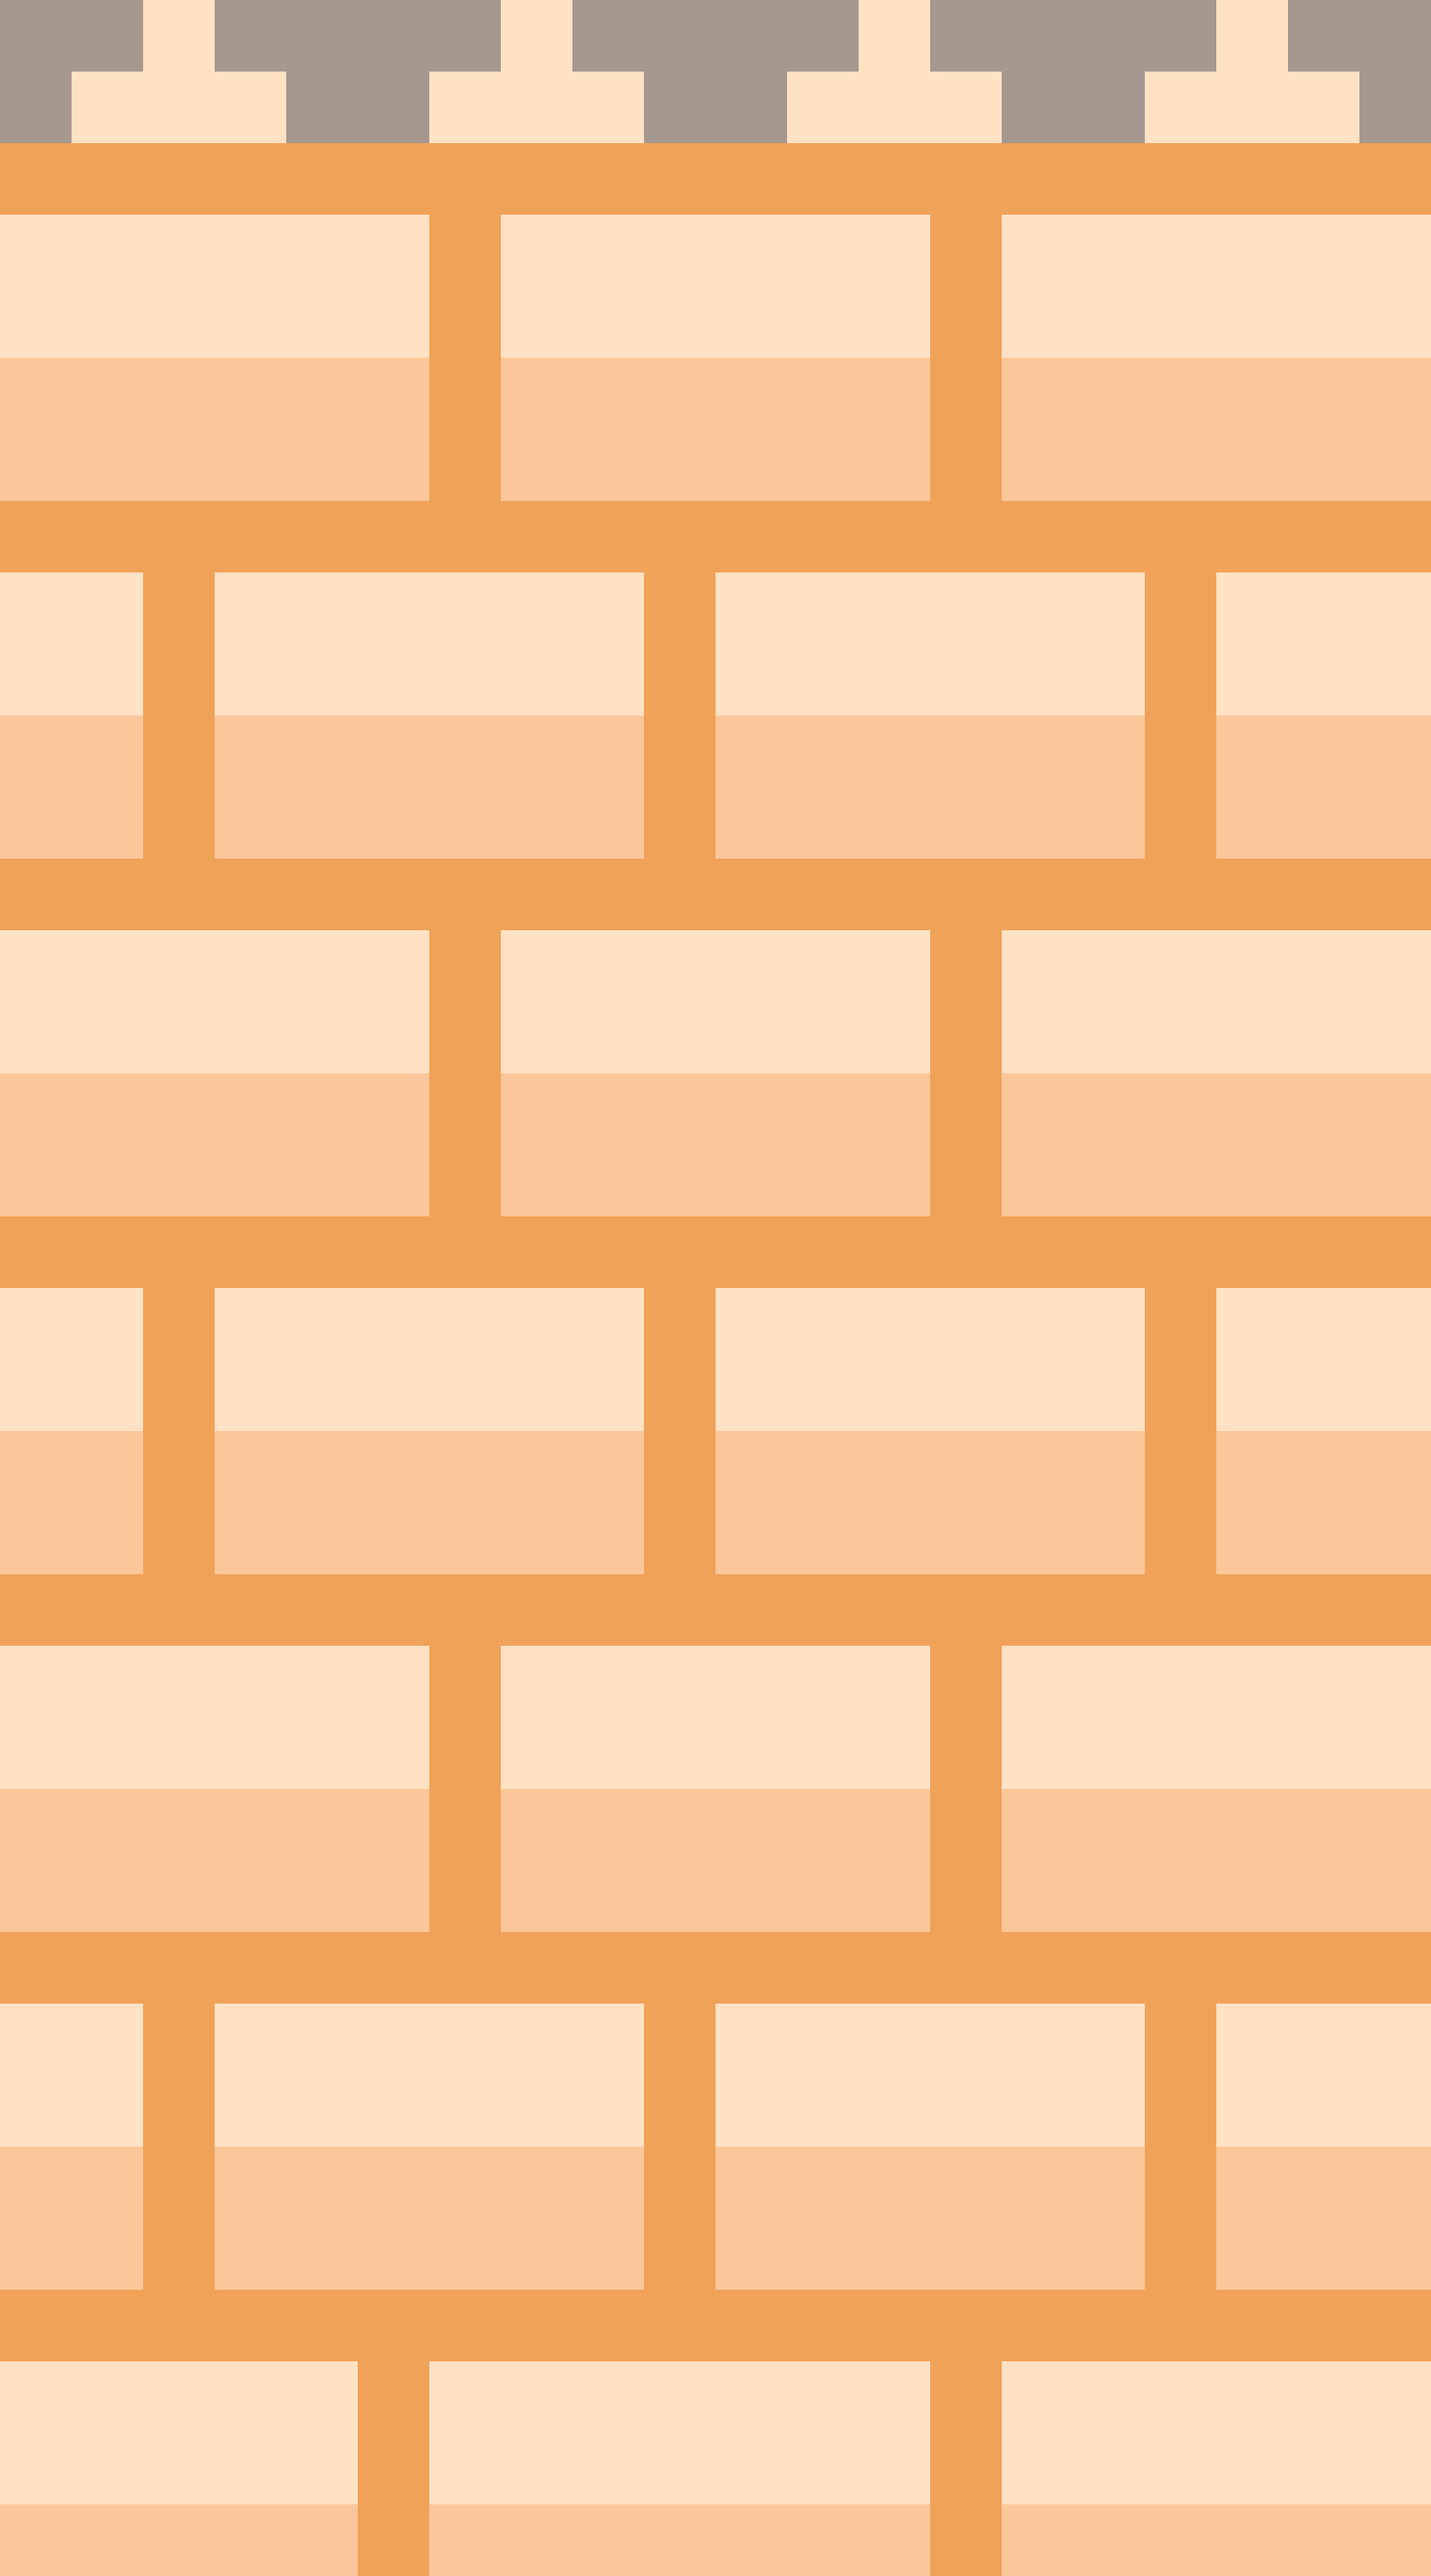
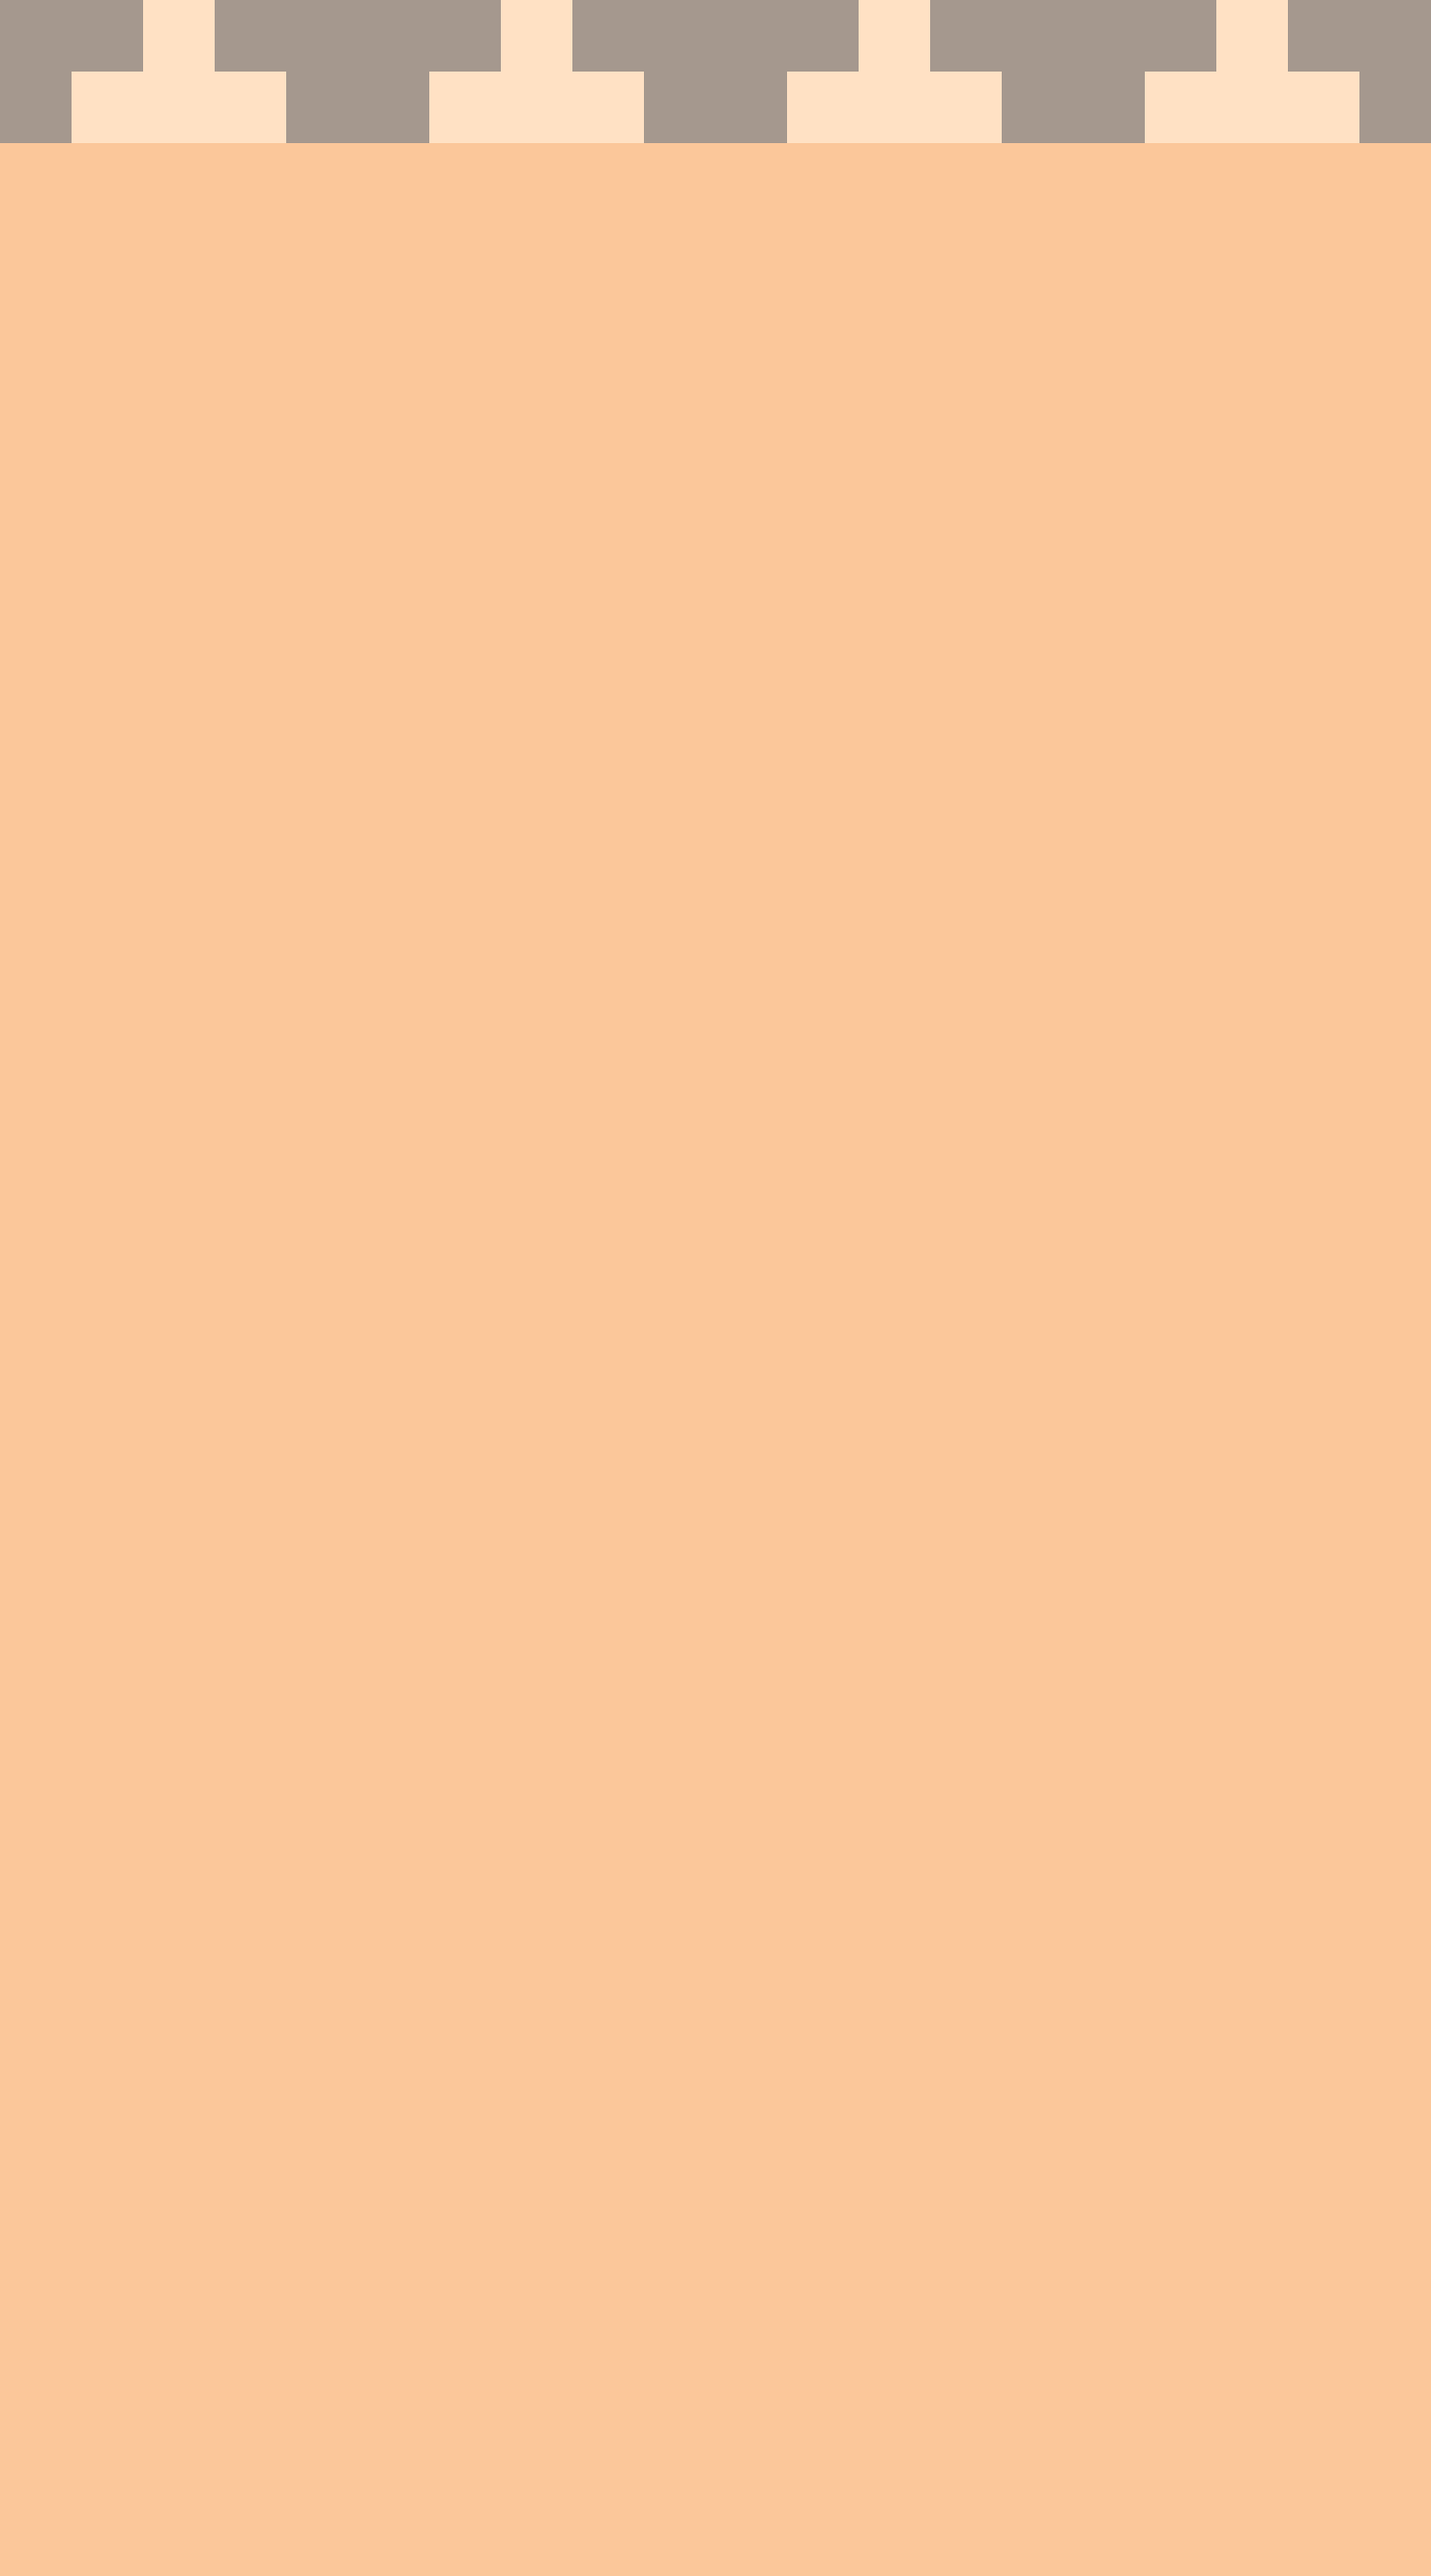
Version 0.3
- Agregada pantalla de inicio.
- Se cambió el fondo de la pantalla de tipos.
- Se arreglo el recuadro azul al oprimir enlaces.
- Se personalizó el manifest.json
- Se arregló el botón de “Atrás”

diff --git a/index.html b/index.html
@@ -5,7 +5,7 @@
     <meta name="apple-mobile-web-app-capable" content="yes">
     <meta name="mobile-web-app-capable" content="yes">
     <title>Pokedex</title>
-    <link rel="stylesheet" href="css/estilos.css" media="screen" title="no title">
+    <link rel="stylesheet" href="css/estilos-splash.css" media="screen" title="no title">
     <link rel="apple-touch-icon" sizes="57x57" href="apple-icon-57x57.png">
     <link rel="apple-touch-icon" sizes="60x60" href="apple-icon-60x60.png">
     <link rel="apple-touch-icon" sizes="72x72" href="apple-icon-72x72.png">
@@ -25,42 +25,11 @@
     <meta name="theme-color" content="#ffffff">
   </head>
   <body>
-    <section class="tipos">
-      <ul class="contenedor">
-        <li class="tipo-item"><a href="tipos/acero.html"><img src="img/tipos/acero.png" class="tipo-img" alt="Tipo Acero" /></a></li>
-        <li class="tipo-item"><a href="tipos/agua.html"><img src="img/tipos/agua.png" class="tipo-img" alt="Tipo Agua" /></a></li>
-        <li class="tipo-item"><a href="tipos/bicho.html"><img src="img/tipos/bicho.png" class="tipo-img" alt="Tipo Bicho" /></a></li>
-      </ul>
-
-      <ul class="contenedor">
-        <li class="tipo-item"><a href="tipos/dragon.html"><img src="img/tipos/dragon.png" class="tipo-img" alt="Tipo Dragón" /></a></li>
-        <li class="tipo-item"><a href="tipos/electrico.html"><img src="img/tipos/electrico.png" class="tipo-img" alt="Tipo Eléctrico" /></a></li>
-        <li class="tipo-item"><a href="tipos/fantasma.html"><img src="img/tipos/fantasma.png" class="tipo-img" alt="Tipo Fantasma" /></a></li>
-      </ul>
-
-      <ul class="contenedor">
-        <li class="tipo-item"><a href="tipos/fuego.html"><img src="img/tipos/fuego.png" class="tipo-img" alt="Tipo Fuego" /></a></li>
-        <li class="tipo-item"><a href="tipos/hada.html"><img src="img/tipos/hada.png" class="tipo-img" alt="Tipo Hada" /></a></li>
-        <li class="tipo-item"><a href="tipos/hielo.html"><img src="img/tipos/hielo.png" class="tipo-img" alt="Tipo Hielo" /></a></li>
-      </ul>
-
-      <ul class="contenedor">
-        <li class="tipo-item"><a href="tipos/lucha.html"><img src="img/tipos/lucha.png" class="tipo-img" alt="Tipo Lucha" /></a></li>
-        <li class="tipo-item"><a href="tipos/normal.html"><img src="img/tipos/normal.png" class="tipo-img" alt="Tipo Normal" /></a></li>
-        <li class="tipo-item"><a href="tipos/planta.html"><img src="img/tipos/planta.png" class="tipo-img" alt="Tipo Planta" /></a></li>
-      </ul>
-
-      <ul class="contenedor">
-        <li class="tipo-item"><a href="tipos/psiquico.html"><img src="img/tipos/psiquico.png" class="tipo-img" alt="Tipo Psiquico" /></a></li>
-        <li class="tipo-item"><a href="tipos/roca.html"><img src="img/tipos/roca.png" class="tipo-img" alt="Tipo Roca" /></a></li>
-        <li class="tipo-item"><a href="tipos/siniestro.html"><img src="img/tipos/siniestro.png" class="tipo-img" alt="Tipo Siniestro" /></a></li>
-      </ul>
-
-      <ul class="contenedor">
-        <li class="tipo-item"><a href="tipos/tierra.html"><img src="img/tipos/tierra.png" class="tipo-img" alt="Tipo Tierra" /></a></li>
-        <li class="tipo-item"><a href="tipos/veneno.html"><img src="img/tipos/veneno.png" class="tipo-img" alt="Tipo Veneno" /></a></li>
-        <li class="tipo-item"><a href="tipos/volador.html"><img src="img/tipos/volador.png" class="tipo-img" alt="Tipo Volador" /></a></li>
-      </ul>
+    <section class="inicio">
+      <div class="boton">
+        <a href="tipos.html"><img src="img/entrar.png" alt="entrar" /></a>
+      </div>
     </section>
+
   </body>
 </html>

diff --git a/tipos.html b/tipos.html
@@ -1,0 +1,47 @@
+<!DOCTYPE html>
+<html>
+  <head>
+    <meta charset="utf-8">
+    <title>Pokedex</title>
+    <link rel="stylesheet" href="css/estilos.css" media="screen" title="no title">
+  </head>
+  <body>
+    <section class="tipos">
+      <ul class="contenedor">
+        <li class="tipo-item"><a href="tipos/acero.html"><img src="img/tipos/acero.png" class="tipo-img" alt="Tipo Acero" /></a></li>
+        <li class="tipo-item"><a href="tipos/agua.html"><img src="img/tipos/agua.png" class="tipo-img" alt="Tipo Agua" /></a></li>
+        <li class="tipo-item"><a href="tipos/bicho.html"><img src="img/tipos/bicho.png" class="tipo-img" alt="Tipo Bicho" /></a></li>
+      </ul>
+
+      <ul class="contenedor">
+        <li class="tipo-item"><a href="tipos/dragon.html"><img src="img/tipos/dragon.png" class="tipo-img" alt="Tipo Dragón" /></a></li>
+        <li class="tipo-item"><a href="tipos/electrico.html"><img src="img/tipos/electrico.png" class="tipo-img" alt="Tipo Eléctrico" /></a></li>
+        <li class="tipo-item"><a href="tipos/fantasma.html"><img src="img/tipos/fantasma.png" class="tipo-img" alt="Tipo Fantasma" /></a></li>
+      </ul>
+
+      <ul class="contenedor">
+        <li class="tipo-item"><a href="tipos/fuego.html"><img src="img/tipos/fuego.png" class="tipo-img" alt="Tipo Fuego" /></a></li>
+        <li class="tipo-item"><a href="tipos/hada.html"><img src="img/tipos/hada.png" class="tipo-img" alt="Tipo Hada" /></a></li>
+        <li class="tipo-item"><a href="tipos/hielo.html"><img src="img/tipos/hielo.png" class="tipo-img" alt="Tipo Hielo" /></a></li>
+      </ul>
+
+      <ul class="contenedor">
+        <li class="tipo-item"><a href="tipos/lucha.html"><img src="img/tipos/lucha.png" class="tipo-img" alt="Tipo Lucha" /></a></li>
+        <li class="tipo-item"><a href="tipos/normal.html"><img src="img/tipos/normal.png" class="tipo-img" alt="Tipo Normal" /></a></li>
+        <li class="tipo-item"><a href="tipos/planta.html"><img src="img/tipos/planta.png" class="tipo-img" alt="Tipo Planta" /></a></li>
+      </ul>
+
+      <ul class="contenedor">
+        <li class="tipo-item"><a href="tipos/psiquico.html"><img src="img/tipos/psiquico.png" class="tipo-img" alt="Tipo Psiquico" /></a></li>
+        <li class="tipo-item"><a href="tipos/roca.html"><img src="img/tipos/roca.png" class="tipo-img" alt="Tipo Roca" /></a></li>
+        <li class="tipo-item"><a href="tipos/siniestro.html"><img src="img/tipos/siniestro.png" class="tipo-img" alt="Tipo Siniestro" /></a></li>
+      </ul>
+
+      <ul class="contenedor">
+        <li class="tipo-item"><a href="tipos/tierra.html"><img src="img/tipos/tierra.png" class="tipo-img" alt="Tipo Tierra" /></a></li>
+        <li class="tipo-item"><a href="tipos/veneno.html"><img src="img/tipos/veneno.png" class="tipo-img" alt="Tipo Veneno" /></a></li>
+        <li class="tipo-item"><a href="tipos/volador.html"><img src="img/tipos/volador.png" class="tipo-img" alt="Tipo Volador" /></a></li>
+      </ul>
+    </section>
+  </body>
+</html>

diff --git a/pokemon/bulbasaur.html b/pokemon/bulbasaur.html
@@ -8,9 +8,9 @@
   </head>
   <body class="planta-veneno">
     <section>
-      <a href="../index.html"><img src="../img/back.png" class="atras" alt="Atras" /></a>
+      <a href="../tipos/planta.html"><img src="../img/back.png" class="atras" alt="Atras" /></a>
     </section>
-    
+
     <section class="pokemon">
       <img src="../img/pkm/1.png" alt="Bulbasaur" />
     </section>

diff --git a/tipos/siniestro.html b/tipos/siniestro.html
@@ -7,11 +7,11 @@
   </head>
   <body class="siniestro">
     <section>
-      <a href="../index.html"><img src="../img/back.png" class="atras" alt="Atras" /></a>
+      <a href="../tipos.html"><img src="../img/back.png" class="atras" alt="Atras" /></a>
     </section>
     <section class="tipos">
       <ul class="contenedor">
-        
+
       </ul>
     </section>
   </body>

diff --git a/css/estilos.css b/css/estilos.css
@@ -1,3 +1,9 @@
+a, input, button {
+  -webkit-touch-callout: none;
+  -webkit-tap-highlight-color: rgba(0, 0, 0, 0);
+  -webkit-user-select: auto !important;
+}
+
 body {
   background-image: url("../img/fondo.png");
   background-size: cover;
@@ -30,4 +36,9 @@ body {
 .tipo-img {
   width: 128px;
   height: 160px;
+  border: none;
+}
+
+.tipo-img:focus {
+  outline: none;
 }

diff --git a/css/estilos-splash.css b/css/estilos-splash.css
@@ -1,0 +1,19 @@
+a, input, button {
+  -webkit-touch-callout: none;
+  -webkit-tap-highlight-color: rgba(0, 0, 0, 0);
+  -webkit-user-select: auto !important;
+}
+
+body {
+  background-image: url("../img/inicio.png");
+  background-size: cover;
+  margin: 0;
+  padding: 0;
+}
+
+.boton img {
+  position: absolute;
+  top: 75%;
+  left: 25%;
+  width: 50%;
+}

diff --git a/tipos/electrico.html b/tipos/electrico.html
@@ -7,7 +7,7 @@
   </head>
   <body class="electrico">
     <section>
-      <a href="../index.html"><img src="../img/back.png" class="atras" alt="Atras" /></a>
+      <a href="../tipos.html"><img src="../img/back.png" class="atras" alt="Atras" /></a>
     </section>
     <section class="tipos">
       <ul class="contenedor">

diff --git a/tipos/fantasma.html b/tipos/fantasma.html
@@ -7,7 +7,7 @@
   </head>
   <body class="fantasma">
     <section>
-      <a href="../index.html"><img src="../img/back.png" class="atras" alt="Atras" /></a>
+      <a href="../tipos.html"><img src="../img/back.png" class="atras" alt="Atras" /></a>
     </section>
     <section class="tipos">
       <ul class="contenedor">

diff --git a/tipos/psiquico.html b/tipos/psiquico.html
@@ -7,7 +7,7 @@
   </head>
   <body class="psiquico">
     <section>
-      <a href="../index.html"><img src="../img/back.png" class="atras" alt="Atras" /></a>
+      <a href="../tipos.html"><img src="../img/back.png" class="atras" alt="Atras" /></a>
     </section>
     <section class="tipos">
       <ul class="contenedor">

diff --git a/tipos/volador.html b/tipos/volador.html
@@ -7,7 +7,7 @@
   </head>
   <body class="volador">
     <section>
-      <a href="../index.html"><img src="../img/back.png" class="atras" alt="Atras" /></a>
+      <a href="../tipos.html"><img src="../img/back.png" class="atras" alt="Atras" /></a>
     </section>
     <section class="tipos">
       <ul class="contenedor">

diff --git a/tipos/dragon.html b/tipos/dragon.html
@@ -7,7 +7,7 @@
   </head>
   <body class="dragon">
     <section>
-      <a href="../index.html"><img src="../img/back.png" class="atras" alt="Atras" /></a>
+      <a href="../tipos.html"><img src="../img/back.png" class="atras" alt="Atras" /></a>
     </section>
     <section class="tipos">
       <ul class="contenedor">

diff --git a/tipos/normal.html b/tipos/normal.html
@@ -7,7 +7,7 @@
   </head>
   <body class="normal">
     <section>
-      <a href="../index.html"><img src="../img/back.png" class="atras" alt="Atras" /></a>
+      <a href="../tipos.html"><img src="../img/back.png" class="atras" alt="Atras" /></a>
     </section>
     <section class="tipos">
       <ul class="contenedor">
